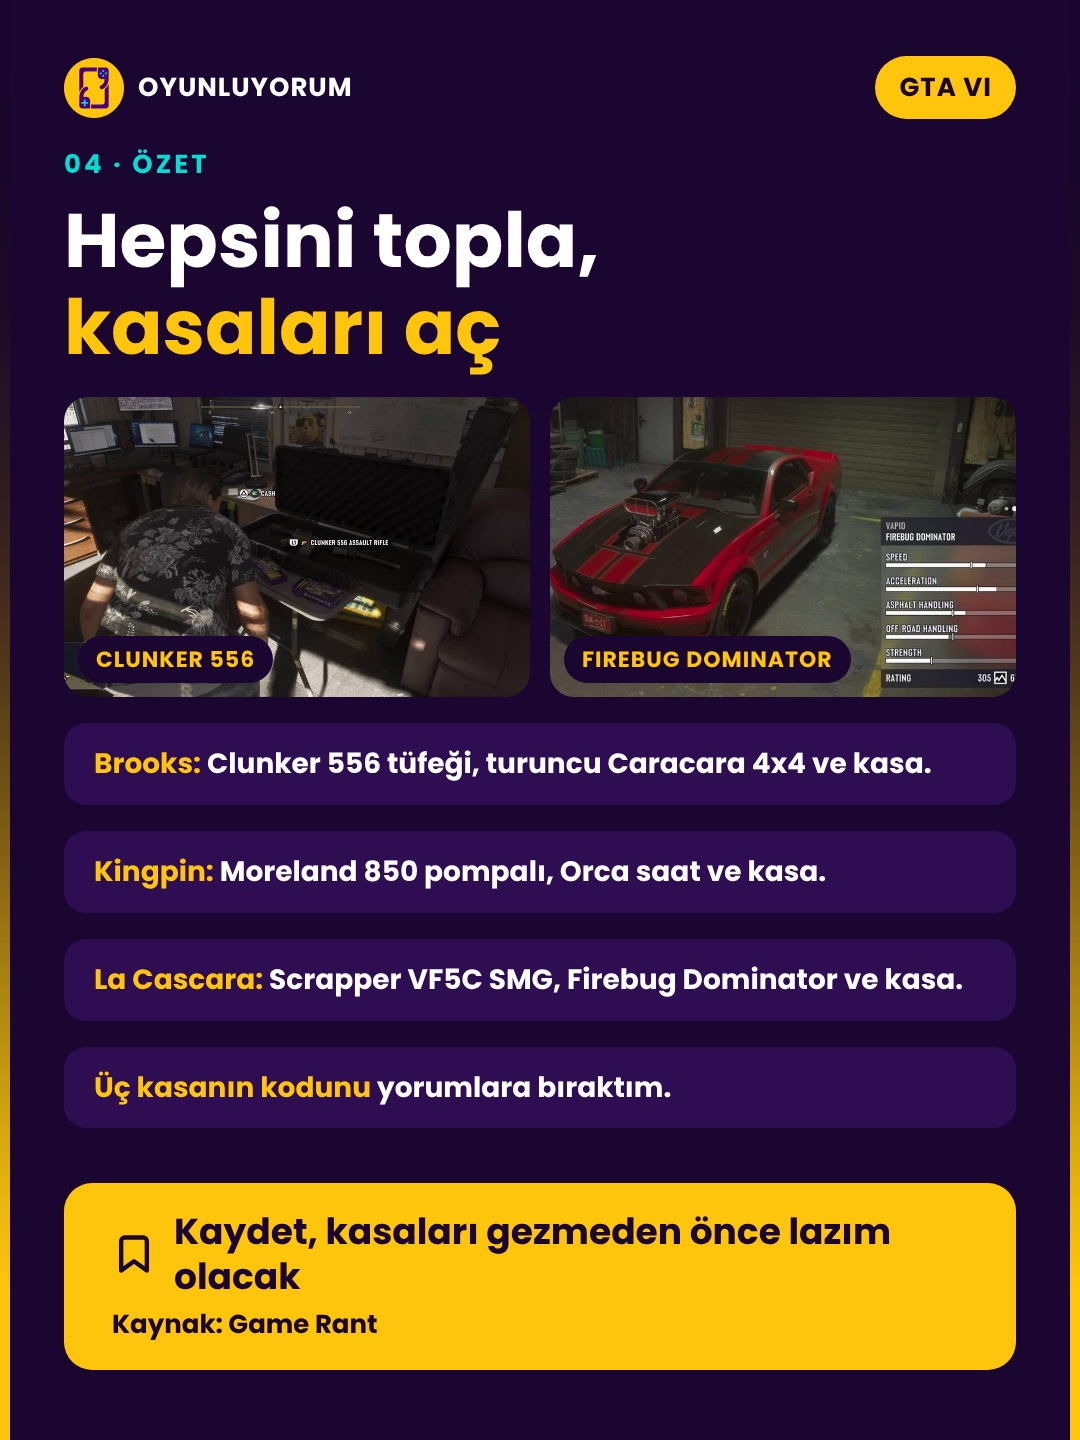
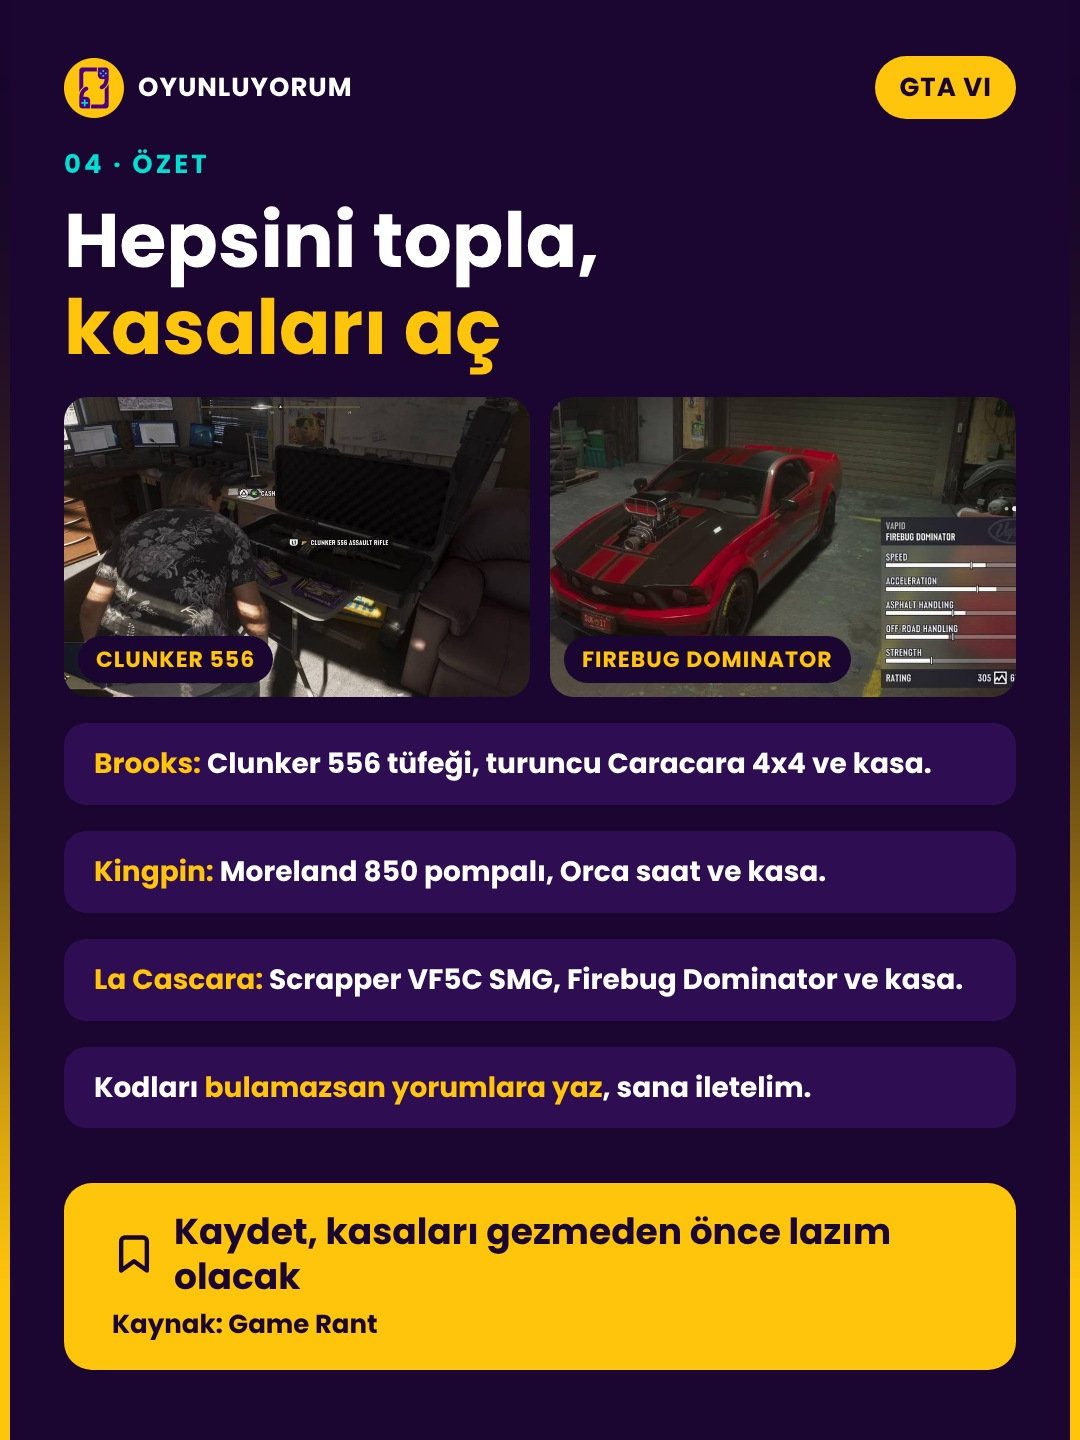
Üç kasa karuseli: kodları bulamazsan yorumlara yaz
Claude-Session: https://claude.ai/code/session_01Cfy9VgEXWVL5ta7MT2PpLs

Changed region(s): [[0.0917, 0.75, 0.7333, 0.7812]]

diff --git a/posts/2026-11-24-gta6-3-gizli-kasa/aciklama.md b/posts/2026-11-24-gta6-3-gizli-kasa/aciklama.md
@@ -1,17 +1,17 @@
 # GTA 6 üç gizli kasa: Brooks Boatworks, Kingpin Bowling, La Cascara Motel
 
-Kaynak: Game Rant (üç ayrı makale). Format: 5 slayt karusel, 1080x1440. Görseller makalelerden. Kodlar görsellerde yok, yorumda paylaşılacak.
+Kaynak: Game Rant (üç ayrı makale). Format: 5 slayt karusel, 1080x1440. Görseller makalelerden. Kodlar görsellerde yok. Kodları bulamayanlar yorum yazınca kodlar yorumda iletilecek.
 
 ## Açıklama
 
 GTA 6'da üç gizli yer birbirine bağlı: Brooks Boatworks, Kingpin Bowling ve La Cascara Motel 🔐
 
-Üçünün de silahı, aracı ve para dolu kasası var. Kasa kodları tek yerde saklı. Kodları yoruma bıraktım 👇
+Üçünün de silahı, aracı ve para dolu kasası var. Kasa kodları tek yerde saklı. Kodları bulamazsan yorumlara yaz 👇
 Bu yerleri beraber soyacağın arkadaşına gönder.
 
 #gta6 #gtavi #gta6türkiye #rockstargames #kasakodu #oyun #oyunluyorum
 
-## Yorumda paylaşılacak kodlar
+## Yorumda iletilecek kodlar (soran olursa)
 - Brooks Boatworks: 6823
 - La Cascara Motel: 6969
 - Kingpin Bowling: 0300
